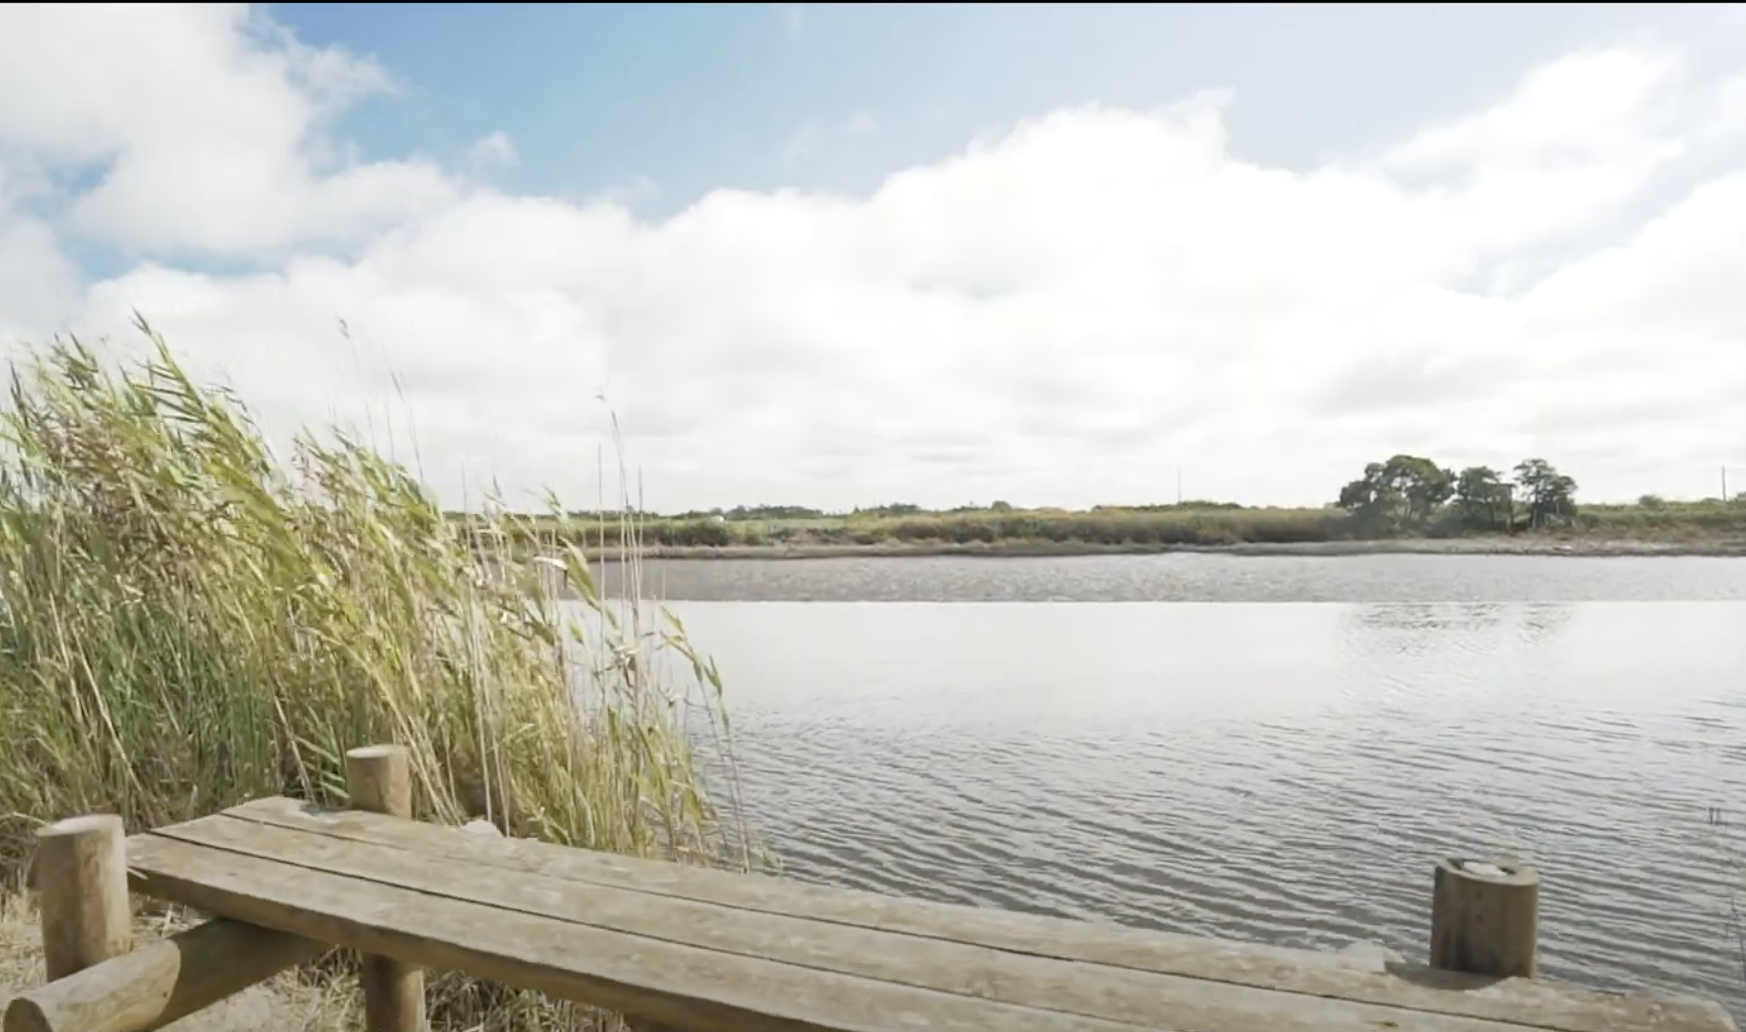
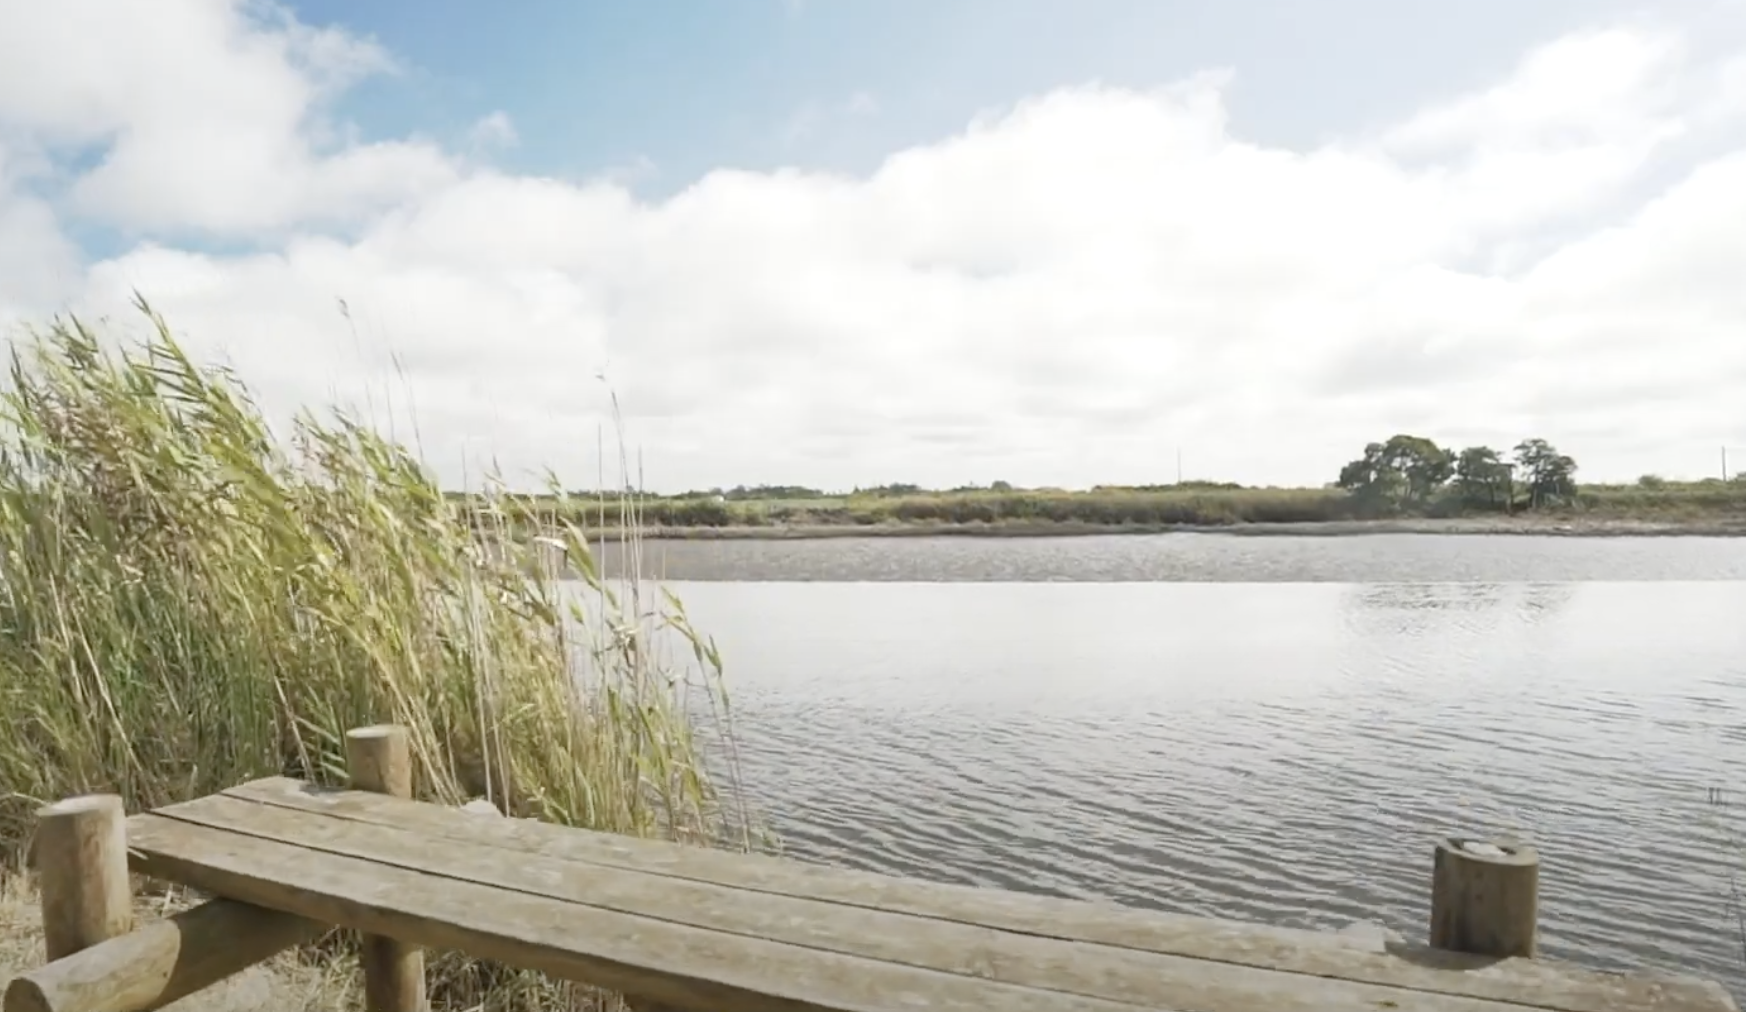
alterações no front end

diff --git a/src/index.css b/src/index.css
@@ -42,6 +42,10 @@ body,
   color: var(--color-dark);
   -webkit-font-smoothing: antialiased;
   -moz-osx-font-smoothing: grayscale;
+  /* Proteção contra overflow horizontal acidental (risco branco à direita).
+     `clip` em vez de `hidden` para não criar contexto de scroll nem partir o
+     posicionamento `sticky` (ex.: cabeçalho da página de Rotas). */
+  overflow-x: clip;
 }
 
 #root {
@@ -56,6 +60,17 @@ body,
   flex-direction: column;
   min-height: 100svh;
   background: #fff;
+}
+
+/* App de estilo móvel: esconde a scrollbar nativa em todos os contentores com
+   scroll. No desktop, essa scrollbar aparecia como um risco branco à direita
+   por cima das imagens (a calha reserva largura que o conteúdo `w-full` não
+   ocupa). O scroll continua a funcionar por roda do rato e por toque. */
+* {
+  scrollbar-width: none; /* Firefox */
+}
+*::-webkit-scrollbar {
+  display: none; /* Chrome / Edge / Safari */
 }
 
 /* Hide scrollbars on chip rails */
@@ -238,7 +253,7 @@ body,
   background: var(--color-secondary);
 }
 
-/* ── Dock marker (Leaflet divIcon — needs raw CSS, not Tailwind) ──────── */
+/* ── Dock marker (Leaflet divIcon) ──────── */
 
 .dock-marker {
   position: relative;

diff --git a/src/pages/Notifications.jsx b/src/pages/Notifications.jsx
@@ -263,11 +263,14 @@ export default function Notifications() {
 
   return (
     <>
-      <div className="flex items-center gap-3 px-4 pt-3 pb-2 flex-shrink-0 border-b border-secondary/5">
+      <div className="flex items-center gap-3 px-4 pt-4 pb-3 flex-shrink-0 border-b border-secondary/5">
         <CircularButton onClick={openSidebar} ariaLabel="Menu" className="md:hidden">
           <MenuIcon />
         </CircularButton>
-        <h1 className="text-2xl font-bold text-dark">Notificações</h1>
+        <div className="flex flex-col">
+          <h1 className="text-xl font-bold text-dark leading-tight">Notificações</h1>
+          <span className="text-xs text-muted">As tuas atividades recentes</span>
+        </div>
       </div>
       <div className="flex-1 overflow-y-auto pb-4">
         <div className="w-full md:max-w-2xl md:mx-auto">

diff --git a/src/layouts/AppLayout.jsx b/src/layouts/AppLayout.jsx
@@ -123,14 +123,14 @@ export function AppShell() {
   };
 
   return (
-    <div className="flex flex-1 min-h-svh">
+    <div className="flex h-svh overflow-hidden">
       <DesktopSidebar />
       <Sidebar
         open={sidebarOpen}
         onClose={() => setSidebarOpen(false)}
         onNavigate={handleSidebarNavigate}
       />
-      <div className="flex flex-col flex-1 min-h-svh min-w-0">
+      <div className="flex flex-col flex-1 min-h-0 min-w-0">
         {!isMap && <StatusBar className="md:hidden" />}
         <main className="flex-1 flex flex-col min-h-0">
           <Outlet context={{ openSidebar: () => setSidebarOpen(true) }} />

diff --git a/src/pages/PostDetail.jsx b/src/pages/PostDetail.jsx
@@ -521,7 +521,7 @@ export default function PostDetail() {
 
   return (
     <div className="flex flex-col flex-1 -mt-6 md:mt-0">
-      <div className="relative w-full h-[328px] flex-shrink-0">
+      <div className="relative w-full h-[400px] flex-shrink-0">
         <img src={images[activeImage]} alt={title} className="w-full h-full object-cover" />
         <div className="absolute left-4 top-4">
           <BackButton />
